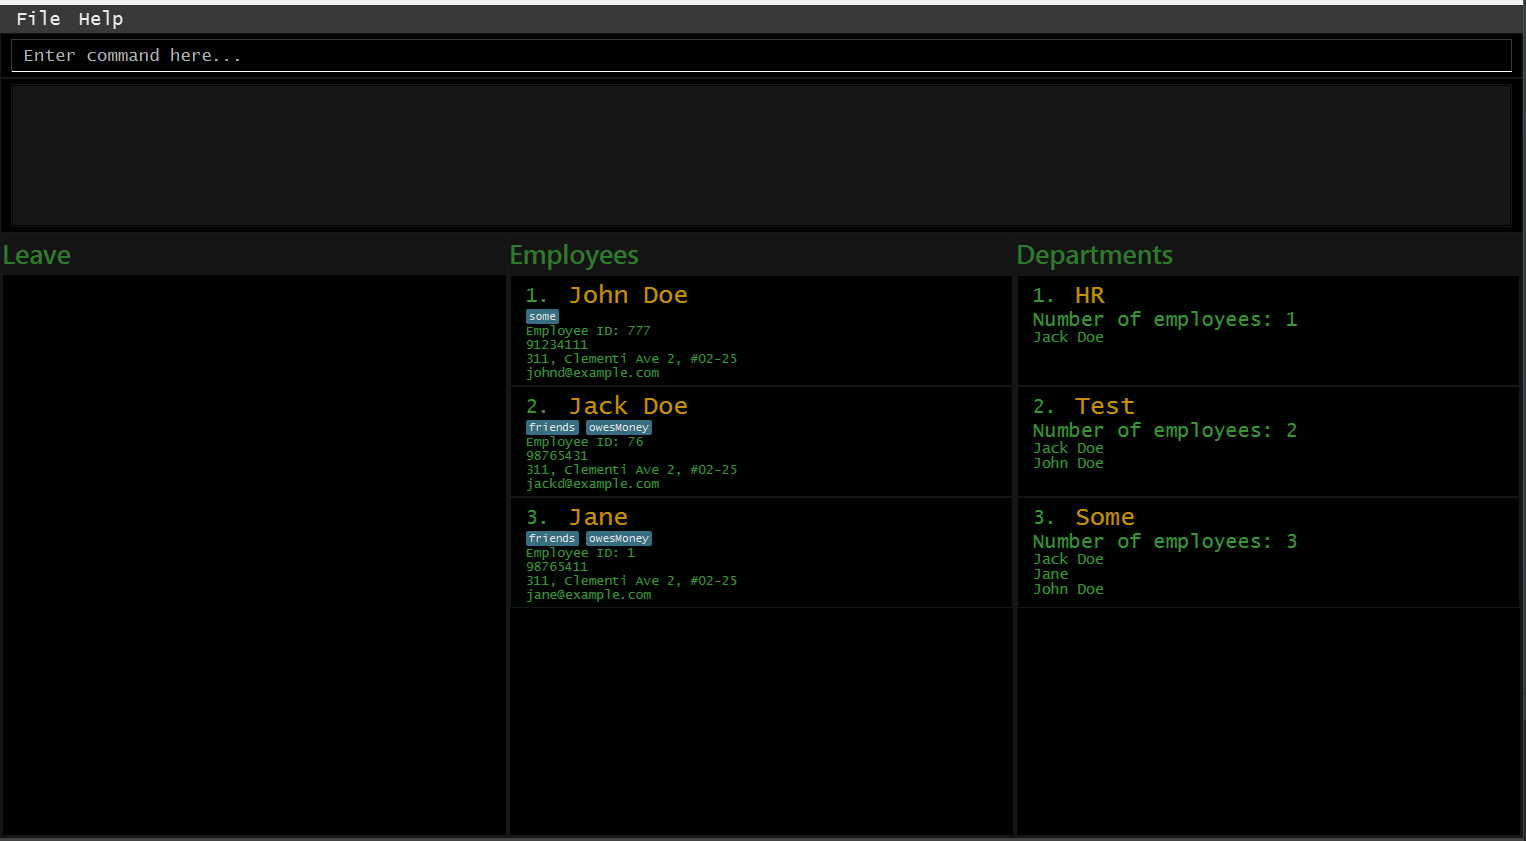
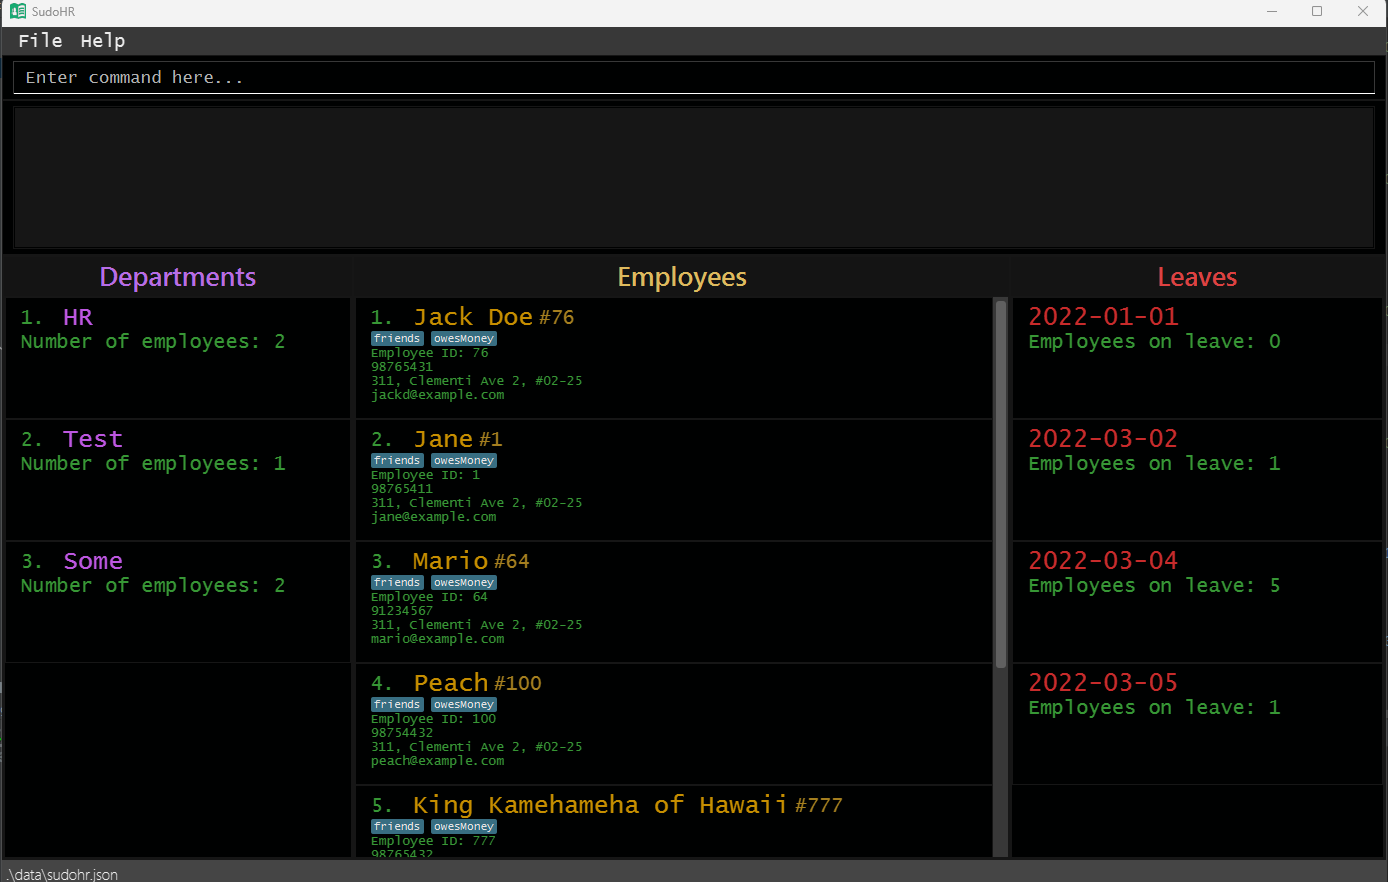
Update Ui colour schemes and added UserId next to Employees name

diff --git a/src/main/resources/view/DarkTheme.css b/src/main/resources/view/DarkTheme.css
@@ -30,10 +30,23 @@
     -fx-text-fill: #3EA93C;
 }
 
-.header{
+.header-employee{
     -fx-font-size: 20pt;
     -fx-background-color: #161616;
-    -fx-text-fill: #328930;
+    -fx-text-fill: #F8D06A;
+    -fx-alignment: center;
+}
+.header-department{
+    -fx-font-size: 20pt;
+    -fx-background-color: #161616;
+    -fx-text-fill: #CC79FF;
+    -fx-alignment: center;
+}
+
+.header-leave{
+    -fx-font-size: 20pt;
+    -fx-background-color: #161616;
+    -fx-text-fill: #F54A4A;
     -fx-alignment: center;
 }
 
@@ -126,10 +139,22 @@
     -fx-text-fill: #3EA93C;
 }
 
-.cell_bigger_label {
+.cell_bigger_label_leave {
+    -fx-font-family: "Lucida Console";
+    -fx-font-size: 25px;
+    -fx-text-fill: #DF3030;
+}
+
+.cell_bigger_label_employee {
     -fx-font-family: "Lucida Console";
     -fx-font-size: 25px;
     -fx-text-fill: #DD9F00;
+}
+
+.cell_bigger_label_department {
+    -fx-font-family: "Lucida Console";
+    -fx-font-size: 25px;
+    -fx-text-fill: #D362FB;
 }
 
 .cell_small_label {
@@ -331,13 +356,7 @@
 #cardPane {
     -fx-background-color: transparent;
     -fx-border-width: 0;
-    -fx-pref-height: 150px;
-}
-
-#cardPane2 {
-    -fx-background-color: transparent;
-    -fx-border-width: 0;
-    -fx-pref-height: 150px;
+    -fx-pref-height: 120px;
 }
 
 #commandTypeLabel {
@@ -388,4 +407,9 @@
     -fx-pref-width: 300px;
     -fx-wrap-text: true;
     -fx-alignment: center;
+}
+
+#hashId {
+    -fx-text-fill: B88E23;
+    -fx-font-size: 20px;
 }

diff --git a/src/main/java/seedu/sudohr/ui/EmployeeCard.java b/src/main/java/seedu/sudohr/ui/EmployeeCard.java
@@ -33,6 +33,8 @@ public class EmployeeCard extends UiPart<Region> {
     @FXML
     private Label name;
     @FXML
+    private Label hashId;
+    @FXML
     private Label employeeId;
     @FXML
     private Label index;
@@ -53,6 +55,7 @@ public class EmployeeCard extends UiPart<Region> {
         this.employee = employee;
         index.setText(displayedIndex + ". ");
         name.setText(employee.getName().fullName);
+        hashId.setText("#" + employee.getId().value);
         employeeId.setText("Employee ID: " + employee.getId().value);
         phone.setText(employee.getPhone().value);
         address.setText(employee.getAddress().value);
